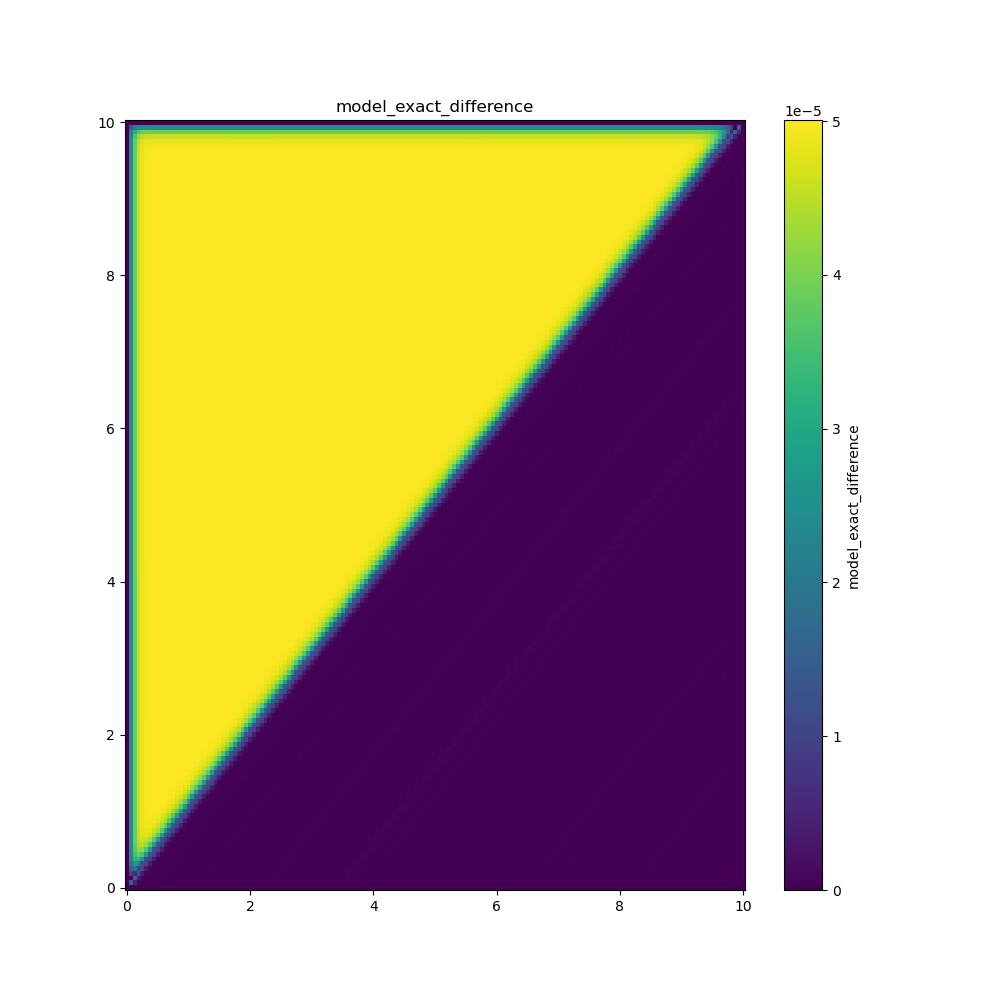
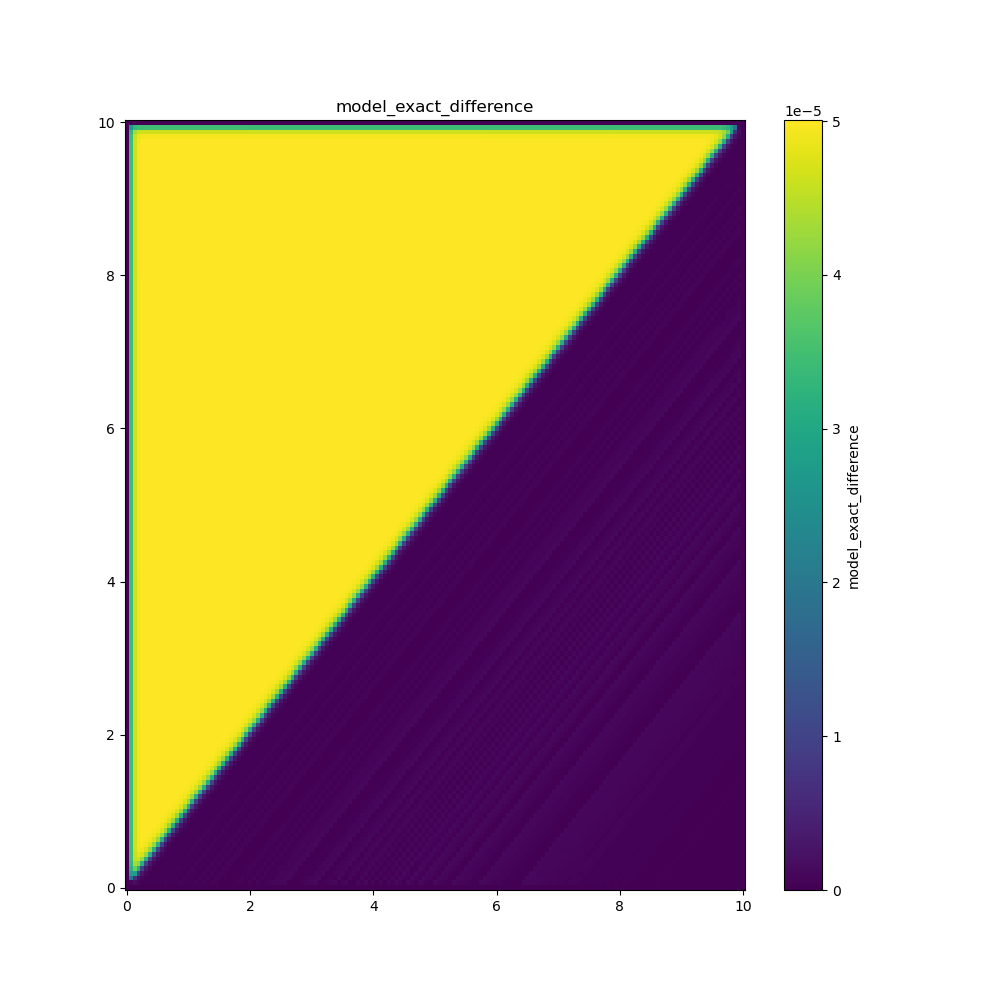
more plots

diff --git a/tests/richards_multiple.py b/tests/richards_multiple.py
@@ -8,10 +8,10 @@ torch.set_default_dtype(torch.float64)
 
 ### Variables that can be changed ###
 nx_array = torch.tensor([10, 20, 40, 80, 160])# numer of elements in each edge of mesh
-dt_array = torch.tensor([0.0001, 0.00005, 0.00002, 0.00001])            # timestep array
+dt_array = torch.tensor([0.01, 0.005, 0.002, 0.001])            # timestep array
 length = 10                                    # domain is [0, 10] x [0, 10]
-T = 0.0001                                      # total length of time
-PC = False                                      # whether to use predictor corrector method
+T = 0.01                                      # total length of time
+PC = True                                      # whether to use predictor corrector method
 
 ### Set up gpu specs ###
 is_gpu = torch.cuda.is_available() # Check if GPU is available 
@@ -72,9 +72,9 @@ with torch.no_grad():
 
             error = u_new - u_exact(x, y, t) # spatial error
 
-            plot_tensor(x_padded, y_padded, u_exact(x_padded,y_padded, t)[0,0,:,:].cpu().numpy(), "exact_solution")
-            plot_tensor(x, y, u_new[0,0,:,:].cpu().numpy(), "model_solution")
-            plot_tensor(x, y, torch.abs(error)[0,0,:,:].cpu().numpy(), "model_exact_difference")
+            #plot_tensor(x_padded, y_padded, u_exact(x_padded,y_padded, t)[0,0,:,:].cpu().numpy(), "exact_solution")
+            #plot_tensor(x, y, u_new[0,0,:,:].cpu().numpy(), "model_solution")
+            #plot_tensor(x, y, torch.abs(error)[0,0,:,:].cpu().numpy(), "model_exact_difference")
 
             L2_error_dx.append(loss(u_new, u_exact(x, y, t)).cpu().numpy())
 
@@ -94,7 +94,7 @@ plt.loglog(dx, L2_error[0], linestyle="dashed", marker="o", label=rf"$\Delta t =
 plt.loglog(dx, L2_error[1], linestyle="dashed", marker="x", label=rf"$\Delta t = {dt_array[1]:.6f}$")
 plt.loglog(dx, L2_error[2], linestyle="dashed", marker="s", label=rf"$\Delta t = {dt_array[2]:.6f}$")
 plt.loglog(dx, L2_error[3], linestyle="dashed", marker="^", label=rf"$\Delta t = {dt_array[3]:.6f}$")
-plt.plot(dx, 0.00001 * dx ** 2, color="black", linestyle="dotted", label=r"Slope $= -2$" )
+plt.plot(dx, 0.0001 * dx ** 2, color="black", linestyle="dotted", label=r"Slope $= -2$" )
 ax.set_xlabel(r"$\Delta x$", fontsize=12)
 ax.set_ylabel(r"$L^2$ error", fontsize=12)
 plt.title(f"Error against mesh-size, total time T = {T}", fontsize=16)
@@ -115,10 +115,13 @@ plt.loglog(dt_array.cpu().numpy(), L2_error[:,4], linestyle="dashed", marker=">"
 #plt.plot(dt, 0.001 * dt, color="black", linestyle="dotted", label=r"Slope $= -1$" )
 ax.set_xlabel(r"$\Delta t$", fontsize=12)
 ax.set_ylabel(r"$L^2$ error", fontsize=12)
-plt.title(f"Error against time-step, total time T = {T}.png", fontsize=16)
+plt.title(f"Error against time-step, total time T = {T}", fontsize=16)
 plt.legend(fontsize=12)
 plt.tight_layout()
-plt.savefig(f"../plots/time_error_T={T}.png")
+if PC == True:
+    plt.savefig(f"../plots/mesh_error_PC_T={T}.png")
+else:
+    plt.savefig(f"../plots/mesh_error_T={T}.png")
 
 #data = {"nx": nx_array.cpu().numpy(), "L2 error": np.array(L2_error_dx), "N iterations": np.array(niterations)}
 #df = pd.DataFrame(data=data)

diff --git a/tests/richards_exp.py b/tests/richards_exp.py
@@ -12,6 +12,7 @@ dt_array = torch.tensor([0.02, 0.01, 0.005, 0.0025, 0.00125])            # times
 length = 1                                    # domain is [0, 10] x [0, 10]
 T = 0.02                                      # total length of time
 KAPPA = True                                    # whether to include nonlinear kappa
+PC = False
 
 ### Set up gpu specs ###
 is_gpu = torch.cuda.is_available() # Check if GPU is available 
